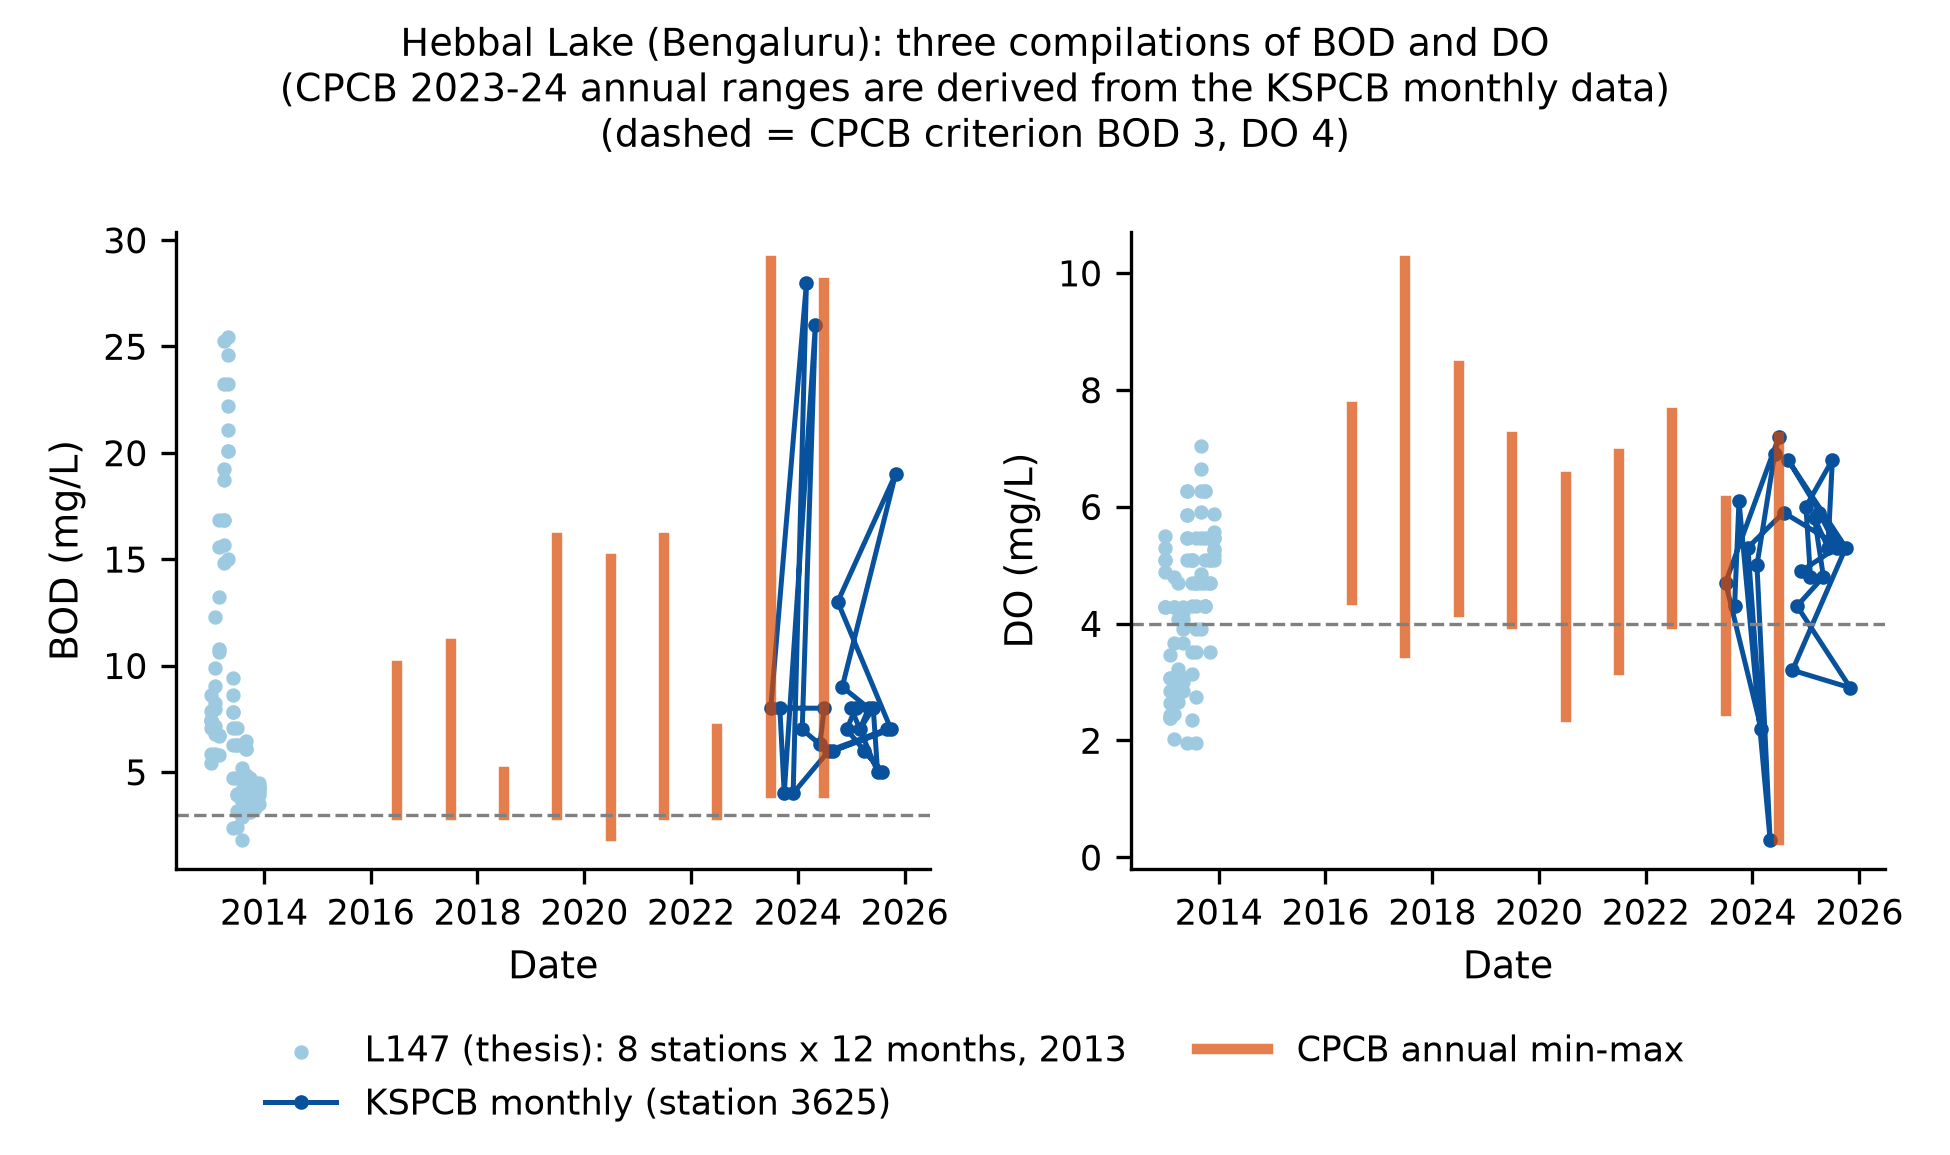
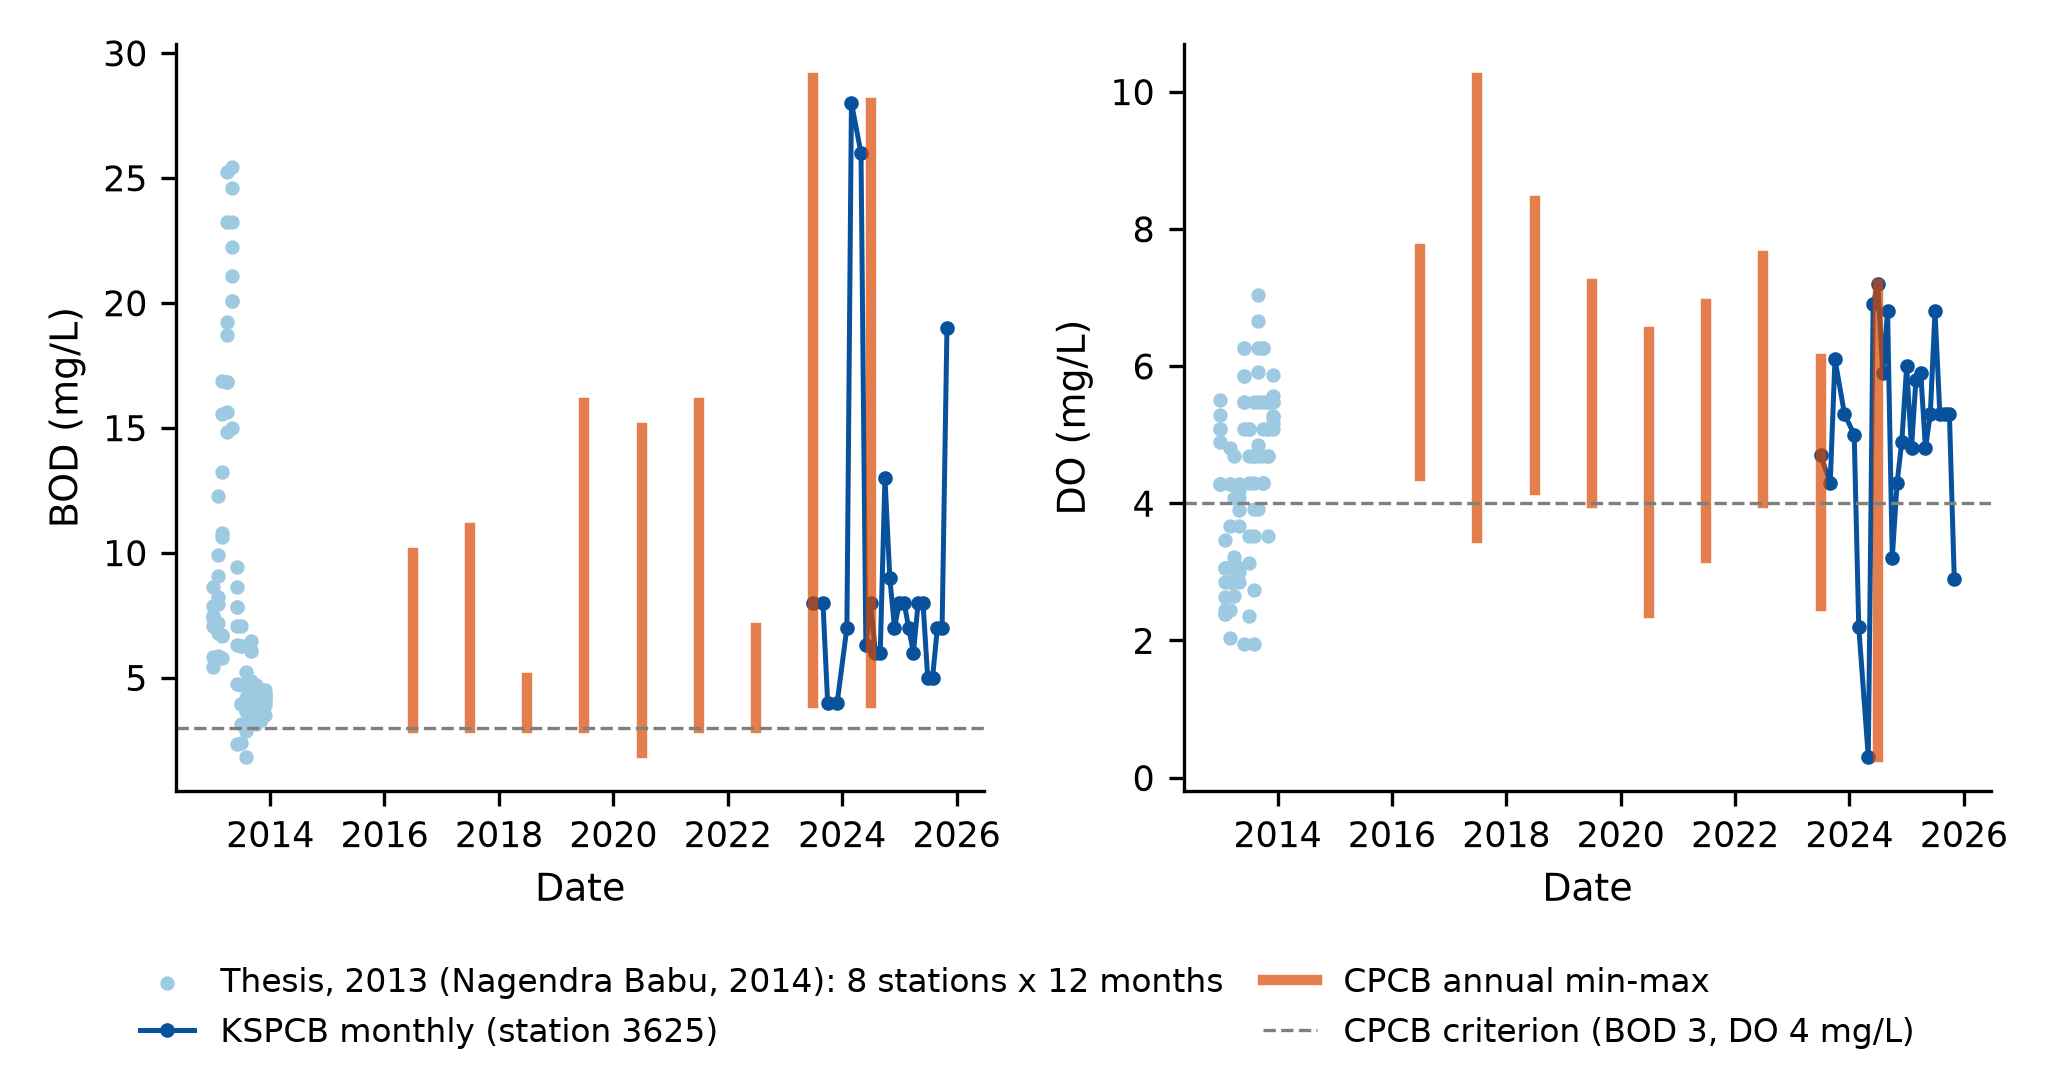
Hebbal cross-source figure: sort the KSPCB monthly values by date before drawing the line (the CSV is not in date order, so the line ran backwards in time); no title inside the figure, criterion lines in the legend, thesis cited by author and year, 174 mm wide

diff --git a/code/analysis_compliance_trends.py b/code/analysis_compliance_trends.py
@@ -111,21 +111,22 @@ for col in ("BOD_max", "DO_min", "faecal_coliform_MPN_max"):
 pd.DataFrame(out).to_csv(T + r"\t08b_ulsoor_pre_post_2017.csv", index=False); print(pd.DataFrame(out).to_string())
 # ---------------------------------------------------------------- Hebbal cross-source figure (BOD, DO)
 hb = d[d.lake_key == "hebbal"].copy()
-# sized for print at the paper's text width (6.5 in); title on three lines, one legend under the panels; all text >= 8 pt
-fig, axs = plt.subplots(1, 2, figsize=(6.5, 3.85))
+# sized for print at 174 mm (Springer single-column width); no title inside the figure (the caption is in the paper);
+# one legend under the panels, all text >= 8 pt. The KSPCB rows are sorted by date before the line is drawn: the CSV
+# is not in date order, and unsorted the line ran backwards in time.
+fig, axs = plt.subplots(1, 2, figsize=(174 / 25.4, 3.6))
 for a_, par, lab in zip(axs, ["BOD", "DO"], ["BOD (mg/L)", "DO (mg/L)"]):
     x1 = hb[(hb.record_id == "L147") & (hb.parameter_std == par) & (hb.statistic == "single")]; x1 = x1.assign(t=pd.to_datetime(x1.date_start))
-    a_.scatter(x1.t, x1.value_std, s=6, color="#9ecae1", label="L147 (thesis): 8 stations x 12 months, 2013")
-    kk = hb[(hb.record_id == "KSPCB") & (hb.parameter_std == par)]; kk = kk.assign(t=pd.to_datetime(kk.date_start)); a_.plot(kk.t, kk.value_std, "o-", color="#08519c", ms=2.5, lw=1.2, label="KSPCB monthly (station 3625)")
+    a_.scatter(x1.t, x1.value_std, s=6, color="#9ecae1", label="Thesis, 2013 (Nagendra Babu, 2014): 8 stations x 12 months")
+    kk = hb[(hb.record_id == "KSPCB") & (hb.parameter_std == par)]; kk = kk.assign(t=pd.to_datetime(kk.date_start)).sort_values("t"); a_.plot(kk.t, kk.value_std, "o-", color="#08519c", ms=2.5, lw=1.2, label="KSPCB monthly (station 3625)")
     cc = hb[(hb.record_id == "CPCB") & (hb.parameter_std == par) & hb.statistic.isin(["min", "max"]) & (hb.station_code == 3627) | ((hb.record_id == "CPCB") & (hb.parameter_std == par) & hb.statistic.isin(["min", "max"]) & (hb.station_code == 3625))]
     for yr, g in cc.groupby("year"):
         a_.plot([pd.Timestamp(f"{int(yr)}-07-01")] * 2, [g[g.statistic == "min"].value_std.min(), g[g.statistic == "max"].value_std.max()], color="#d94801", lw=2.5, alpha=0.7, label="CPCB annual min-max" if yr == cc.year.min() else None)
-    a_.axhline(3 if par == "BOD" else 4, ls="--", color="grey", lw=0.8); a_.set_ylabel(lab); a_.set_xlabel("Date")
+    a_.axhline(3 if par == "BOD" else 4, ls="--", color="grey", lw=0.8, label="CPCB criterion (BOD 3, DO 4 mg/L)"); a_.set_ylabel(lab); a_.set_xlabel("Date")
     a_.tick_params(labelsize=8.5)
 h, l = axs[0].get_legend_handles_labels()
-fig.legend(h, l, loc="lower center", ncol=2, frameon=False, fontsize=8.5, bbox_to_anchor=(0.5, 0.0))
-fig.suptitle("Hebbal Lake (Bengaluru): three compilations of BOD and DO\n(CPCB 2023-24 annual ranges are derived from the KSPCB monthly data)\n(dashed = CPCB criterion BOD 3, DO 4)", fontsize=9)
-fig.tight_layout(rect=(0, 0.11, 1, 1)); fig.savefig(F + r"\fig08_hebbal_cross_source.png", dpi=300); plt.close(fig)
+fig.legend(h, l, loc="lower center", ncol=2, frameon=False, fontsize=8, bbox_to_anchor=(0.5, 0.0), columnspacing=1.2, handlelength=1.6)
+fig.tight_layout(rect=(0, 0.12, 1, 1)); fig.savefig(F + r"\fig08_hebbal_cross_source.png", dpi=300); plt.close(fig)
 # ---------------------------------------------------------------- consistency: KSPCB monthly values inside CPCB annual range, same station, 2023-24
 inside = []
 for yr in (2023, 2024):
